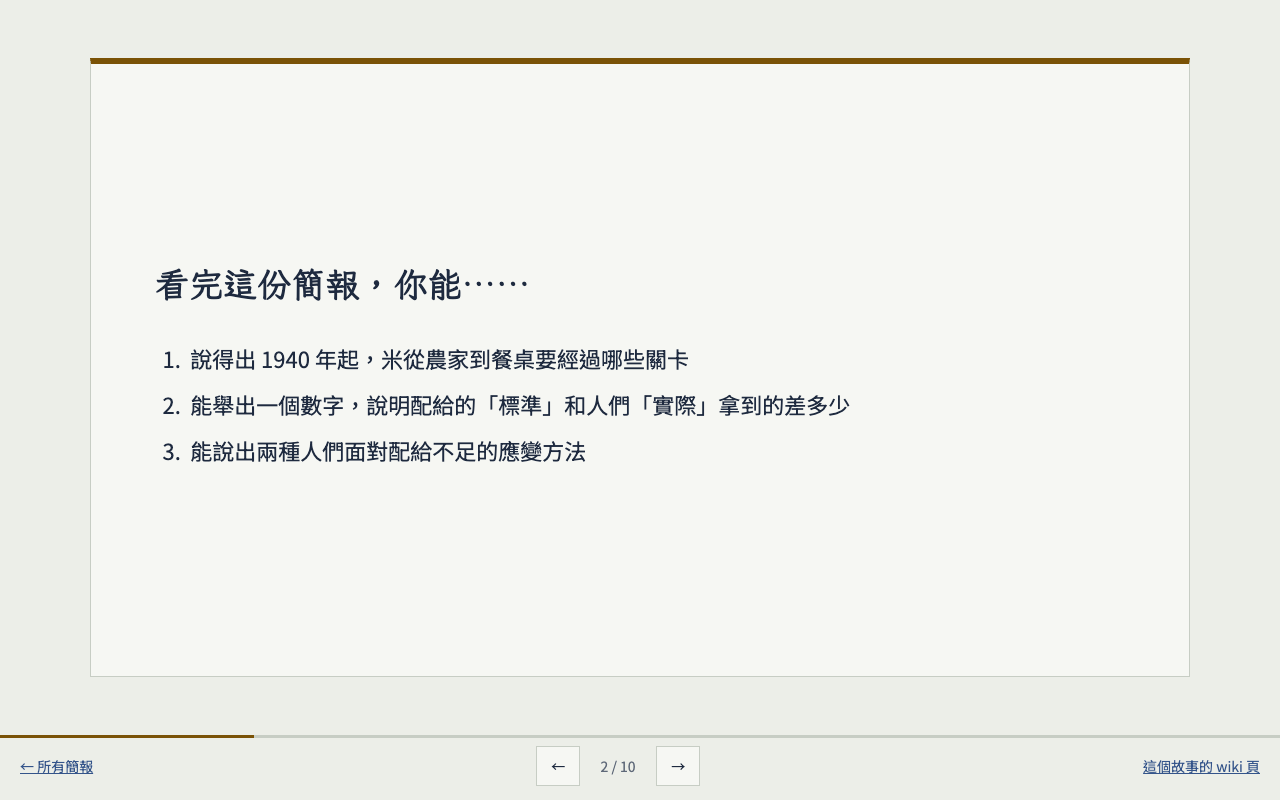
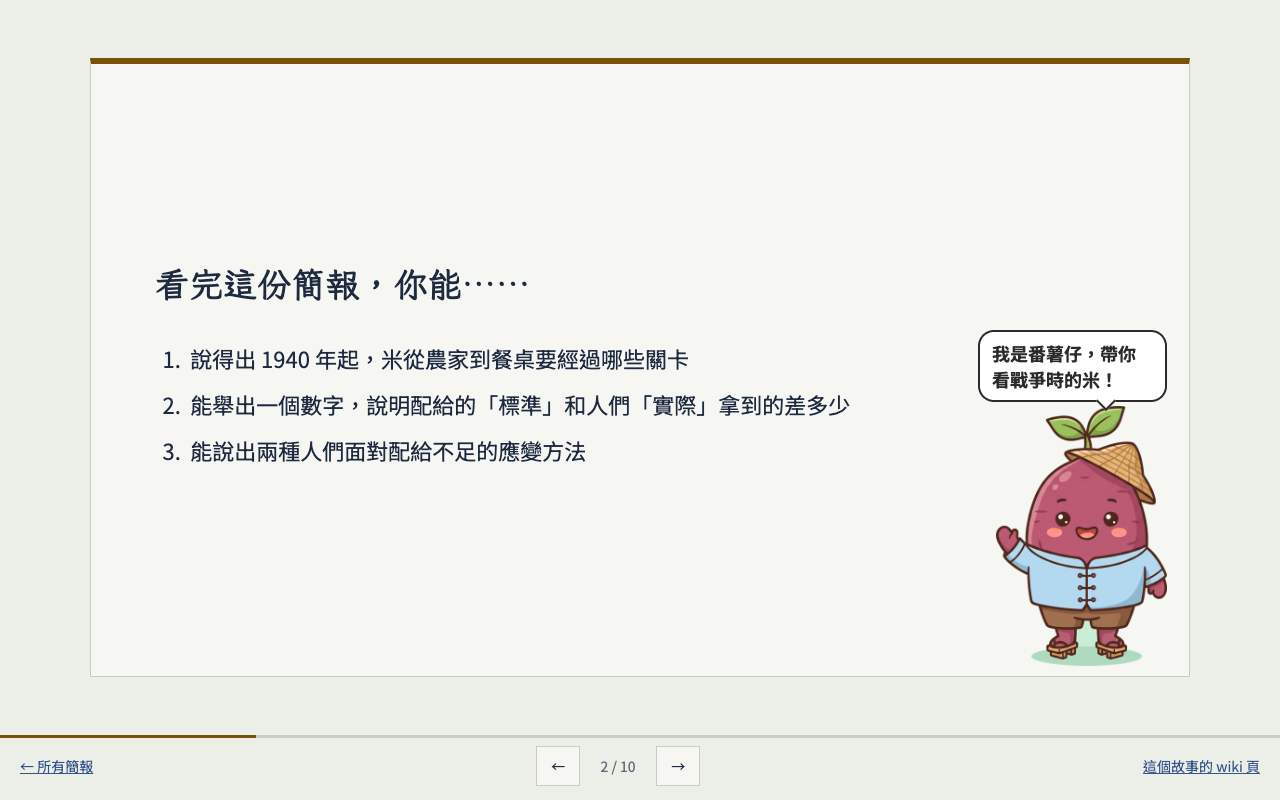
吉祥物改版：Q 版三角色＋對話框，參考老師簡報用法

Changed region(s): [[0.75, 0.4062, 0.9375, 0.8438]]

diff --git a/slides/t-rice-ration/deck.html b/slides/t-rice-ration/deck.html
@@ -84,23 +84,31 @@ figcaption{font-size:.8em;color:var(--muted)}
 }
 /* 吉祥物：每次開啟隨機挑角色與頁面，放在頁角，不擋字 */
 .slide{position:relative}
-.mascot{position:absolute;height:clamp(96px,25%,190px);width:auto;pointer-events:none;user-select:none}
-.at-br{right:18px;bottom:14px}.at-tr{right:22px;top:16px}.at-bl{left:18px;bottom:14px}.at-tl{left:22px;top:16px}.at-mr{right:14px;top:40%}
-.mascot.flip{transform:scaleX(-1)}
+.mascot{position:absolute;display:flex;flex-direction:column;align-items:flex-end;gap:4px;pointer-events:none;user-select:none}
+.mascot.at-bl,.mascot.at-tl{align-items:flex-start}
+.mascot img{width:auto;display:block;order:2}
+.mascot.flip img{transform:scaleX(-1)}
+.mascot .say{order:1;background:#fff;border:2.5px solid #2b2b2b;border-radius:16px;padding:8px 12px;font-size:clamp(14px,1.5vw,18px);font-weight:700;line-height:1.45;max-width:10.5em;position:relative;color:#2b2b2b}
+.mascot .say::after{content:"";position:absolute;bottom:-8px;right:28%;width:12px;height:12px;background:#fff;border:solid #2b2b2b;border-width:0 2.5px 2.5px 0;transform:rotate(45deg)}
+.mascot.at-bl .say::after,.mascot.at-tl .say::after{right:auto;left:28%}
+.at-br{right:22px;bottom:10px}.at-tr{right:22px;top:12px}.at-bl{left:22px;bottom:10px}.at-tl{left:22px;top:12px}.at-mr{right:22px;top:22%}
+/* 有吉祥物的頁：讓出一欄給角色（像老師的簡報），文字不會被擋 */
+.slide[data-mascot]:not(.layout-cover) .inner{padding-right:max(24%,250px)}
+.slide[data-spot="bl"]:not(.layout-cover) .inner,.slide[data-spot="tl"]:not(.layout-cover) .inner{padding-right:0;padding-left:max(24%,250px)}
 </style>
 </head>
 <body data-cat="rice">
 <main class="deck" id="deck">
 <section class="slide layout-cover" id="p1" aria-label="第 1 頁"><div class="inner"><div class="cover"><div class="ticket"><span class="stub">主</span><div><p class="series">戰時餐桌・故事簡報</p><h1>一天能吃多少米？</h1><p class="sub">1940 年起，農家多的米要交給政府，大家吃的米由政府來分配。</p><p class="meta">臺灣 1939–1945　·　共 10 頁　·　用 ← → 或滑動翻頁</p></div></div><img class="cover-img" src="../../assets/img/t-rice-ration.jpg" alt="木刻版畫風插畫：田邊的收購場，農民挑著稻穀排隊，辦事員用大秤秤重、登記。"></div></div></section>
-<section class="slide layout-goals" id="p2" aria-label="第 2 頁"><div class="inner"><h2>看完這份簡報，你能……</h2><ol class='goals'><li>說得出 1940 年起，米從農家到餐桌要經過哪些關卡</li><li>能舉出一個數字，說明配給的「標準」和人們「實際」拿到的差多少</li><li>能說出兩種人們面對配給不足的應變方法</li></ol></div></section>
+<section class="slide layout-goals" data-mascot="../../assets/mascots/sweetpotato/wave.png" data-spot="br" data-say="我是番薯仔，帶你看戰爭時的米！" id="p2" aria-label="第 2 頁"><div class="inner"><h2>看完這份簡報，你能……</h2><ol class='goals'><li>說得出 1940 年起，米從農家到餐桌要經過哪些關卡</li><li>能舉出一個數字，說明配給的「標準」和人們「實際」拿到的差多少</li><li>能說出兩種人們面對配給不足的應變方法</li></ol></div></section>
 <section class="slide layout-text" id="p3" aria-label="第 3 頁"><div class="inner"><h2>為什麼 1940 年開始管米？</h2><p>1939 年朝鮮大旱，隔年朝鮮運到日本的米，從 5,690 千石掉到 395 千石（石是當時量米的容量單位）。 <span class="cites">（<a class="cite" href="https://github.com/YuCecil/wartime-food-wiki/blob/main/wiki/sources/s-2009-li-grain-regulation.md" target="_blank" rel="noopener">李力庸 2009，頁 77</a>）</span></p><p>日本只好要臺灣補上缺口：1940 年臺灣要運出 5,000 千石，比前一年更多。 <span class="cites">（<a class="cite" href="https://github.com/YuCecil/wartime-food-wiki/blob/main/wiki/sources/s-2009-li-grain-regulation.md" target="_blank" rel="noopener">李力庸 2009，頁 77–78</a>）</span></p><p>同年 5 月，臺灣總督府宣布：一期稻作的米全部由政府管理。 <span class="cites">（<a class="cite" href="https://github.com/YuCecil/wartime-food-wiki/blob/main/wiki/sources/s-2017-huang-wartime-food-management.md" target="_blank" rel="noopener">黃仁姿 2017，頁 46–47</a>）</span></p><p>日本本土要到 10 月才跟進，<strong>殖民地反而比本土早一步</strong>。 <span class="cites">（<a class="cite" href="https://github.com/YuCecil/wartime-food-wiki/blob/main/wiki/sources/s-2017-huang-wartime-food-management.md" target="_blank" rel="noopener">黃仁姿 2017，頁 47</a>）</span></p></div></section>
-<section class="slide layout-text" data-mascot="../../assets/mascots/pig/ticket.png" data-spot="br" id="p4" aria-label="第 4 頁"><div class="inner"><h2>米從田裡到餐桌的關卡</h2><p><strong>收米</strong>：農家扣掉自己要吃的和種子，其餘由政府用公定價格強制收購。 <span class="cites">（<a class="cite" href="https://github.com/YuCecil/wartime-food-wiki/blob/main/wiki/sources/s-2017-tseng-table-war.md" target="_blank" rel="noopener">曾品滄 2017，頁 9</a>）</span></p><p><strong>綁住</strong>：沒交足規定的量，就領不到配給。 <span class="cites">（<a class="cite" href="https://github.com/YuCecil/wartime-food-wiki/blob/main/wiki/sources/s-2015-tseng-postwar-food-control.md" target="_blank" rel="noopener">曾獻緯 2015，頁 59</a>）</span></p><p><strong>盯著</strong>：經濟警察負責確保糧食配給、限制自由買賣。 <span class="cites">（<a class="cite" href="https://github.com/YuCecil/wartime-food-wiki/blob/main/wiki/sources/s-2025-lu-police-society.md" target="_blank" rel="noopener">陸文楓 2025，頁 47</a>）</span></p><p><strong>分米</strong>：1943 年底起，配給交給新成立、專管糧食配給的「台灣食糧營團」，收購由農業會負責。 <span class="cites">（<a class="cite" href="https://github.com/YuCecil/wartime-food-wiki/blob/main/wiki/sources/s-2019-huang-irrigation-farm-org.md" target="_blank" rel="noopener">黃仁姿、薛化元 2019，頁 133</a>；<a class="cite" href="https://github.com/YuCecil/wartime-food-wiki/blob/main/wiki/sources/s-2009-li-grain-regulation.md" target="_blank" rel="noopener">李力庸 2009，頁 97</a>）</span></p><p><strong>買米</strong>：一般家庭拿著配給券，大約一個月去買兩次米。 <span class="cites">（<a class="cite" href="https://github.com/YuCecil/wartime-food-wiki/blob/main/wiki/sources/s-2009-li-grain-regulation.md" target="_blank" rel="noopener">李力庸 2009，頁 93</a>）</span></p></div></section>
-<section class="slide layout-number" data-mascot="../../assets/mascots/cassava/sack.png" data-spot="tr" id="p5" aria-label="第 5 頁"><div class="inner"><h2>收成的米，有多少要交出去？</h2><p class="big"><span class="stamp-num">85.30%</span><span class="big-label">1944 年，臺灣的米交給政府的比例</span></p><p>這個比例叫「供出率」：交給政府的量，占實際收成的多少。 <span class="cites">（<a class="cite" href="https://github.com/YuCecil/wartime-food-wiki/blob/main/wiki/sources/s-2009-li-grain-regulation.md" target="_blank" rel="noopener">李力庸 2009，頁 94</a>）</span></p><p>同一年，朝鮮是 63.47%，日本本土是 60.46%，<strong>臺灣最高</strong>。 <span class="cites">（<a class="cite" href="https://github.com/YuCecil/wartime-food-wiki/blob/main/wiki/sources/s-2009-li-grain-regulation.md" target="_blank" rel="noopener">李力庸 2009，頁 94</a>）</span></p></div></section>
+<section class="slide layout-text" data-mascot="../../assets/mascots/pig/ticket.png" data-spot="br" data-say="有這張券，才買得到米喔！" id="p4" aria-label="第 4 頁"><div class="inner"><h2>米從田裡到餐桌的關卡</h2><p><strong>收米</strong>：農家扣掉自己要吃的和種子，其餘由政府用公定價格強制收購。 <span class="cites">（<a class="cite" href="https://github.com/YuCecil/wartime-food-wiki/blob/main/wiki/sources/s-2017-tseng-table-war.md" target="_blank" rel="noopener">曾品滄 2017，頁 9</a>）</span></p><p><strong>綁住</strong>：沒交足規定的量，就領不到配給。 <span class="cites">（<a class="cite" href="https://github.com/YuCecil/wartime-food-wiki/blob/main/wiki/sources/s-2015-tseng-postwar-food-control.md" target="_blank" rel="noopener">曾獻緯 2015，頁 59</a>）</span></p><p><strong>盯著</strong>：經濟警察負責確保糧食配給、限制自由買賣。 <span class="cites">（<a class="cite" href="https://github.com/YuCecil/wartime-food-wiki/blob/main/wiki/sources/s-2025-lu-police-society.md" target="_blank" rel="noopener">陸文楓 2025，頁 47</a>）</span></p><p><strong>分米</strong>：1943 年底起，配給交給新成立、專管糧食配給的「台灣食糧營團」，收購由農業會負責。 <span class="cites">（<a class="cite" href="https://github.com/YuCecil/wartime-food-wiki/blob/main/wiki/sources/s-2019-huang-irrigation-farm-org.md" target="_blank" rel="noopener">黃仁姿、薛化元 2019，頁 133</a>；<a class="cite" href="https://github.com/YuCecil/wartime-food-wiki/blob/main/wiki/sources/s-2009-li-grain-regulation.md" target="_blank" rel="noopener">李力庸 2009，頁 97</a>）</span></p><p><strong>買米</strong>：一般家庭拿著配給券，大約一個月去買兩次米。 <span class="cites">（<a class="cite" href="https://github.com/YuCecil/wartime-food-wiki/blob/main/wiki/sources/s-2009-li-grain-regulation.md" target="_blank" rel="noopener">李力庸 2009，頁 93</a>）</span></p></div></section>
+<section class="slide layout-number" data-mascot="../../assets/mascots/pig/sack.png" data-spot="bl" data-say="辛苦種的米，大部分都要交出去？" id="p5" aria-label="第 5 頁"><div class="inner"><h2>收成的米，有多少要交出去？</h2><p class="big"><span class="stamp-num">85.30%</span><span class="big-label">1944 年，臺灣的米交給政府的比例</span></p><p>這個比例叫「供出率」：交給政府的量，占實際收成的多少。 <span class="cites">（<a class="cite" href="https://github.com/YuCecil/wartime-food-wiki/blob/main/wiki/sources/s-2009-li-grain-regulation.md" target="_blank" rel="noopener">李力庸 2009，頁 94</a>）</span></p><p>同一年，朝鮮是 63.47%，日本本土是 60.46%，<strong>臺灣最高</strong>。 <span class="cites">（<a class="cite" href="https://github.com/YuCecil/wartime-food-wiki/blob/main/wiki/sources/s-2009-li-grain-regulation.md" target="_blank" rel="noopener">李力庸 2009，頁 94</a>）</span></p></div></section>
 <section class="slide layout-number" id="p6" aria-label="第 6 頁"><div class="inner"><h2>一般成年人一天配到多少米？</h2><p class="big"><span class="stamp-num">330 公克</span><span class="big-label">1942 年起，一般成年人每天的配給標準（七分搗米）</span></p><p>米的配給量，最初是照營養學家推算的每日所需熱量的<strong>八成</strong>來訂的。 <span class="cites">（<a class="cite" href="https://github.com/YuCecil/wartime-food-wiki/blob/main/wiki/sources/s-2017-tseng-table-war.md" target="_blank" rel="noopener">曾品滄 2017，頁 10</a>）</span></p><p>工作越重配越多：重勞動者 520 公克，輕勞動者、青少年、孕婦 390 公克。 <span class="cites">（<a class="cite" href="https://github.com/YuCecil/wartime-food-wiki/blob/main/wiki/sources/s-2017-tseng-table-war.md" target="_blank" rel="noopener">曾品滄 2017，頁 10</a>）</span></p><p>330 公克的七分搗米約是 2 合 3 勺；臺灣用糙米（只去殼、沒碾白的米）計算，就是 <strong>2 合 5 勺</strong>。 <span class="cites">（<a class="cite" href="https://github.com/YuCecil/wartime-food-wiki/blob/main/wiki/sources/s-2017-huang-wartime-food-management.md" target="_blank" rel="noopener">黃仁姿 2017，頁 41 註 17</a>）</span></p></div></section>
-<section class="slide layout-text" data-mascot="../../assets/mascots/rice/bowl.png" data-spot="mr" id="p7" aria-label="第 7 頁"><div class="inner"><h2>標準一路往下砍，實際拿到的更少</h2><p>標準：一般人每天糙米 2 合 5 勺，寫成小數是 2.50 合（「勺」是比「合」小的單位）。 <span class="cites">（<a class="cite" href="https://github.com/YuCecil/wartime-food-wiki/blob/main/wiki/sources/s-2017-tseng-table-war.md" target="_blank" rel="noopener">曾品滄 2017，頁 10</a>；<a class="cite" href="https://github.com/YuCecil/wartime-food-wiki/blob/main/wiki/sources/s-2017-huang-wartime-food-management.md" target="_blank" rel="noopener">黃仁姿 2017，頁 51</a>）</span></p><p>1940 年 3 月，新竹市把一般人的配給從 2 合 5 勺減成 2 合 2 勺。 <span class="cites">（<a class="cite" href="https://github.com/YuCecil/wartime-food-wiki/blob/main/wiki/sources/s-2017-tseng-table-war.md" target="_blank" rel="noopener">曾品滄 2017，頁 11</a>）</span></p><p>4 月，澎湖一般人只配 2 合，產米的屏東更只有 1.7 合。 <span class="cites">（<a class="cite" href="https://github.com/YuCecil/wartime-food-wiki/blob/main/wiki/sources/s-2017-tseng-table-war.md" target="_blank" rel="noopener">曾品滄 2017，頁 11</a>）</span></p><p>1945 年第一期稻作起，連標準也降：一般消費者再減一成五。 <span class="cites">（<a class="cite" href="https://github.com/YuCecil/wartime-food-wiki/blob/main/wiki/sources/s-2017-huang-wartime-food-management.md" target="_blank" rel="noopener">黃仁姿 2017，頁 50 註 44</a>）</span></p><p>1944 至 1945 年，各地居民實際配到的米常低於二合五勺的標準，<strong>比在臺日本人還少</strong>。 <span class="cites">（<a class="cite" href="https://github.com/YuCecil/wartime-food-wiki/blob/main/wiki/sources/s-2013-tseng-hometown.md" target="_blank" rel="noopener">曾品滄 2013，頁 130</a>）</span></p></div></section>
+<section class="slide layout-text" data-mascot="../../assets/mascots/rice/bowl.png" data-spot="br" data-say="碗裡的飯，怎麼越來越少……" id="p7" aria-label="第 7 頁"><div class="inner"><h2>標準一路往下砍，實際拿到的更少</h2><p>標準：一般人每天糙米 2 合 5 勺，寫成小數是 2.50 合（「勺」是比「合」小的單位）。 <span class="cites">（<a class="cite" href="https://github.com/YuCecil/wartime-food-wiki/blob/main/wiki/sources/s-2017-tseng-table-war.md" target="_blank" rel="noopener">曾品滄 2017，頁 10</a>；<a class="cite" href="https://github.com/YuCecil/wartime-food-wiki/blob/main/wiki/sources/s-2017-huang-wartime-food-management.md" target="_blank" rel="noopener">黃仁姿 2017，頁 51</a>）</span></p><p>1940 年 3 月，新竹市把一般人的配給從 2 合 5 勺減成 2 合 2 勺。 <span class="cites">（<a class="cite" href="https://github.com/YuCecil/wartime-food-wiki/blob/main/wiki/sources/s-2017-tseng-table-war.md" target="_blank" rel="noopener">曾品滄 2017，頁 11</a>）</span></p><p>4 月，澎湖一般人只配 2 合，產米的屏東更只有 1.7 合。 <span class="cites">（<a class="cite" href="https://github.com/YuCecil/wartime-food-wiki/blob/main/wiki/sources/s-2017-tseng-table-war.md" target="_blank" rel="noopener">曾品滄 2017，頁 11</a>）</span></p><p>1945 年第一期稻作起，連標準也降：一般消費者再減一成五。 <span class="cites">（<a class="cite" href="https://github.com/YuCecil/wartime-food-wiki/blob/main/wiki/sources/s-2017-huang-wartime-food-management.md" target="_blank" rel="noopener">黃仁姿 2017，頁 50 註 44</a>）</span></p><p>1944 至 1945 年，各地居民實際配到的米常低於二合五勺的標準，<strong>比在臺日本人還少</strong>。 <span class="cites">（<a class="cite" href="https://github.com/YuCecil/wartime-food-wiki/blob/main/wiki/sources/s-2013-tseng-hometown.md" target="_blank" rel="noopener">曾品滄 2013，頁 130</a>）</span></p></div></section>
 <section class="slide layout-compare" id="p8" aria-label="第 8 頁"><div class="inner"><h2>帳面上夠吃，生活裡不夠吃？</h2><div class="compare"><div class="side"><p class="who">一種說法</p><p>歷史學者黃仁姿用統計推算，到 1944 年為止臺灣的米都還有剩，1945 年才不足將近 160 萬石。 <span class="cites">（<a class="cite" href="https://github.com/YuCecil/wartime-food-wiki/blob/main/wiki/sources/s-2017-huang-wartime-food-management.md" target="_blank" rel="noopener">黃仁姿 2017，頁 64</a>）</span></p></div><div class="side"><p class="who">另一種說法</p><p>歷史學者曾獻緯寫道，配給的食物總是不夠，有時一連幾天用地瓜或麵包代替三餐。 <span class="cites">（<a class="cite" href="https://github.com/YuCecil/wartime-food-wiki/blob/main/wiki/sources/s-2015-tseng-postwar-food-control.md" target="_blank" rel="noopener">曾獻緯 2015，頁 59</a>）</span></p></div></div><p>黃仁姿自己也注意到這個落差：一個月份的配給米，往往只撐二十多天。 <span class="cites">（<a class="cite" href="https://github.com/YuCecil/wartime-food-wiki/blob/main/wiki/sources/s-2017-huang-wartime-food-management.md" target="_blank" rel="noopener">黃仁姿 2017，頁 65</a>）</span></p><p>米去了哪裡？她推測可能流向軍隊：終戰前在臺陸軍約 30 萬人。 <span class="cites">（<a class="cite" href="https://github.com/YuCecil/wartime-food-wiki/blob/main/wiki/sources/s-2017-huang-wartime-food-management.md" target="_blank" rel="noopener">黃仁姿 2017，頁 63 註 83</a>）</span></p></div></section>
-<section class="slide layout-text" data-mascot="../../assets/mascots/sweetpotato/basket.png" data-spot="br" id="p9" aria-label="第 9 頁"><div class="inner"><h2>米不夠吃，大家怎麼辦？</h2><p><strong>吃番薯</strong>：1944 年臺灣的番薯只交出 6.28%，作者推測大家用大量番薯代替米。 <span class="cites">（<a class="cite" href="https://github.com/YuCecil/wartime-food-wiki/blob/main/wiki/sources/s-2009-li-grain-regulation.md" target="_blank" rel="noopener">李力庸 2009，頁 94</a>）</span></p><p>住在臺中霧峰的林獻堂在日記裡寫，配給米減了兩成，「非以蕃薯代用不可」。 <span class="cites">（<a class="cite" href="https://github.com/YuCecil/wartime-food-wiki/blob/main/wiki/sources/s-2017-tseng-table-war.md" target="_blank" rel="noopener">曾品滄 2017，頁 11–12</a>）</span></p><p><strong>找黑市</strong>：配給米不夠，就透過黑市買，或在飯裡摻番薯籤。 <span class="cites">（<a class="cite" href="https://github.com/YuCecil/wartime-food-wiki/blob/main/wiki/sources/s-2017-huang-wartime-food-management.md" target="_blank" rel="noopener">黃仁姿 2017，頁 65</a>）</span></p><p><strong>藏起來</strong>：佃農會把粟（稻穀）藏起來。張文環想用義勇報國隊的名義去搜，林獻堂勸他別用這個名義，怕惹人怨恨。 <span class="cites">（<a class="cite" href="https://github.com/YuCecil/wartime-food-wiki/blob/main/wiki/sources/s-2025-lu-police-society.md" target="_blank" rel="noopener">陸文楓 2025，頁 53</a>）</span></p><p>義勇報國隊是總督府 1944 年 8 月底打算設立的民兵組織。 <span class="cites">（<a class="cite" href="https://github.com/YuCecil/wartime-food-wiki/blob/main/wiki/sources/s-2025-lu-police-society.md" target="_blank" rel="noopener">陸文楓 2025，頁 52</a>）</span></p></div></section>
-<section class="slide layout-check" data-mascot="../../assets/mascots/pig/thinking.png" data-spot="bl" id="p10" aria-label="第 10 頁"><div class="inner"><h2>自我檢查</h2><ol class='qa'><li><p>戰爭末期（1943 年底以後），一般家庭怎麼拿到米？</p><details><summary>看答案</summary><p>農家的米由政府收購，交給食糧營團配給，家庭拿配給券去買。（第 4 頁）</p></details></li><li><p>1940 年起一般人每天的配給標準是多少？哪裡配得比標準少？</p><details><summary>看答案</summary><p>標準是糙米 2 合 5 勺；1940 年新竹減成 2 合 2 勺，澎湖 2 合，屏東只有 1.7 合。（第 7 頁）</p></details></li><li><p>舉出兩種人們面對配給不足的辦法。</p><details><summary>看答案</summary><p>用番薯代替米、到黑市買、在飯裡摻番薯籤、把稻穀藏起來（任兩種）。（第 9 頁）</p></details></li></ol></div></section>
+<section class="slide layout-text" data-mascot="../../assets/mascots/sweetpotato/pointer.png" data-spot="br" data-say="米不夠，就換番薯上場！" id="p9" aria-label="第 9 頁"><div class="inner"><h2>米不夠吃，大家怎麼辦？</h2><p><strong>吃番薯</strong>：1944 年臺灣的番薯只交出 6.28%，作者推測大家用大量番薯代替米。 <span class="cites">（<a class="cite" href="https://github.com/YuCecil/wartime-food-wiki/blob/main/wiki/sources/s-2009-li-grain-regulation.md" target="_blank" rel="noopener">李力庸 2009，頁 94</a>）</span></p><p>住在臺中霧峰的林獻堂在日記裡寫，配給米減了兩成，「非以蕃薯代用不可」。 <span class="cites">（<a class="cite" href="https://github.com/YuCecil/wartime-food-wiki/blob/main/wiki/sources/s-2017-tseng-table-war.md" target="_blank" rel="noopener">曾品滄 2017，頁 11–12</a>）</span></p><p><strong>找黑市</strong>：配給米不夠，就透過黑市買，或在飯裡摻番薯籤。 <span class="cites">（<a class="cite" href="https://github.com/YuCecil/wartime-food-wiki/blob/main/wiki/sources/s-2017-huang-wartime-food-management.md" target="_blank" rel="noopener">黃仁姿 2017，頁 65</a>）</span></p><p><strong>藏起來</strong>：佃農會把粟（稻穀）藏起來。張文環想用義勇報國隊的名義去搜，林獻堂勸他別用這個名義，怕惹人怨恨。 <span class="cites">（<a class="cite" href="https://github.com/YuCecil/wartime-food-wiki/blob/main/wiki/sources/s-2025-lu-police-society.md" target="_blank" rel="noopener">陸文楓 2025，頁 53</a>）</span></p><p>義勇報國隊是總督府 1944 年 8 月底打算設立的民兵組織。 <span class="cites">（<a class="cite" href="https://github.com/YuCecil/wartime-food-wiki/blob/main/wiki/sources/s-2025-lu-police-society.md" target="_blank" rel="noopener">陸文楓 2025，頁 52</a>）</span></p></div></section>
+<section class="slide layout-check" data-mascot="../../assets/mascots/rice/ask.png" data-spot="bl" data-say="答不出來？回前面找找看！" id="p10" aria-label="第 10 頁"><div class="inner"><h2>自我檢查</h2><ol class='qa'><li><p>戰爭末期（1943 年底以後），一般家庭怎麼拿到米？</p><details><summary>看答案</summary><p>農家的米由政府收購，交給食糧營團配給，家庭拿配給券去買。（第 4 頁）</p></details></li><li><p>1940 年起一般人每天的配給標準是多少？哪裡配得比標準少？</p><details><summary>看答案</summary><p>標準是糙米 2 合 5 勺；1940 年新竹減成 2 合 2 勺，澎湖 2 合，屏東只有 1.7 合。（第 7 頁）</p></details></li><li><p>舉出兩種人們面對配給不足的辦法。</p><details><summary>看答案</summary><p>用番薯代替米、到黑市買、在飯裡摻番薯籤、把稻穀藏起來（任兩種）。（第 9 頁）</p></details></li></ol></div></section>
 </main>
 <div class="progress" aria-hidden="true"><span id="prog"></span></div>
 <nav class="bar" aria-label="翻頁">
@@ -136,15 +144,16 @@ go(parseInt(location.hash.slice(1))||1);
    位置在顯示時才決定：依頁碼輪換優先順序，挑第一個不擋到文字的角落；都會擋就不放。 */
 const SPOTS=['br','tr','bl','mr','tl'];
 function placeMascot(s,n){const src=s.dataset.mascot;if(!src||s.dataset.placed)return;s.dataset.placed=1;
-  const img=new Image();img.alt='';img.className='mascot';img.src=src;
+  const box=document.createElement('div'),img=new Image();img.alt='';img.src=src;box.appendChild(img);
+  if(s.dataset.say){const b=document.createElement('div');b.className='say';b.textContent=s.dataset.say;box.appendChild(b)}
   img.onload=()=>{const txt=[...s.querySelectorAll('.inner h2,.inner p,.inner li,.inner .big,.inner .compare,.inner figure,.inner .cover')]
       .map(e=>{const r=e.getBoundingClientRect(),range=document.createRange();range.selectNodeContents(e);const c=range.getBoundingClientRect();
         return {l:c.left||r.left,r:(c.right||r.right),t:r.top,b:r.bottom}});
     const rot=SPOTS.slice(n%SPOTS.length).concat(SPOTS.slice(0,n%SPOTS.length));const order=[...new Set([s.dataset.spot,...rot].filter(Boolean))];
-    s.appendChild(img);
-    for(const sp of order){img.className='mascot at-'+sp+(n%3===1?' flip':'');const m=img.getBoundingClientRect();
+    s.appendChild(box);const H=s.getBoundingClientRect().height;
+    for(const sp of order)for(const f of [.42,.34,.26]){img.style.height=Math.round(H*f)+'px';box.className='mascot at-'+sp+(n%3===1?' flip':'');const m=box.getBoundingClientRect();
       if(!txt.some(x=>x.r>m.left-8&&x.l<m.right+8&&x.b>m.top-8&&x.t<m.bottom+8))return;}
-    img.remove();};}
+    box.remove();};}
 const _go=go;go=function(n){_go(n);placeMascot(slides[cur-1],cur)};
 placeMascot(slides[cur-1],cur);
 </script>

diff --git a/templates/deck.html b/templates/deck.html
@@ -84,9 +84,17 @@ figcaption{font-size:.8em;color:var(--muted)}
 }
 /* 吉祥物：每次開啟隨機挑角色與頁面，放在頁角，不擋字 */
 .slide{position:relative}
-.mascot{position:absolute;height:clamp(96px,25%,190px);width:auto;pointer-events:none;user-select:none}
-.at-br{right:18px;bottom:14px}.at-tr{right:22px;top:16px}.at-bl{left:18px;bottom:14px}.at-tl{left:22px;top:16px}.at-mr{right:14px;top:40%}
-.mascot.flip{transform:scaleX(-1)}
+.mascot{position:absolute;display:flex;flex-direction:column;align-items:flex-end;gap:4px;pointer-events:none;user-select:none}
+.mascot.at-bl,.mascot.at-tl{align-items:flex-start}
+.mascot img{width:auto;display:block;order:2}
+.mascot.flip img{transform:scaleX(-1)}
+.mascot .say{order:1;background:#fff;border:2.5px solid #2b2b2b;border-radius:16px;padding:8px 12px;font-size:clamp(14px,1.5vw,18px);font-weight:700;line-height:1.45;max-width:10.5em;position:relative;color:#2b2b2b}
+.mascot .say::after{content:"";position:absolute;bottom:-8px;right:28%;width:12px;height:12px;background:#fff;border:solid #2b2b2b;border-width:0 2.5px 2.5px 0;transform:rotate(45deg)}
+.mascot.at-bl .say::after,.mascot.at-tl .say::after{right:auto;left:28%}
+.at-br{right:22px;bottom:10px}.at-tr{right:22px;top:12px}.at-bl{left:22px;bottom:10px}.at-tl{left:22px;top:12px}.at-mr{right:22px;top:22%}
+/* 有吉祥物的頁：讓出一欄給角色（像老師的簡報），文字不會被擋 */
+.slide[data-mascot]:not(.layout-cover) .inner{padding-right:max(24%,250px)}
+.slide[data-spot="bl"]:not(.layout-cover) .inner,.slide[data-spot="tl"]:not(.layout-cover) .inner{padding-right:0;padding-left:max(24%,250px)}
 </style>
 </head>
 <body data-cat="{{CAT}}">
@@ -127,15 +135,16 @@ go(parseInt(location.hash.slice(1))||1);
    位置在顯示時才決定：依頁碼輪換優先順序，挑第一個不擋到文字的角落；都會擋就不放。 */
 const SPOTS=['br','tr','bl','mr','tl'];
 function placeMascot(s,n){const src=s.dataset.mascot;if(!src||s.dataset.placed)return;s.dataset.placed=1;
-  const img=new Image();img.alt='';img.className='mascot';img.src=src;
+  const box=document.createElement('div'),img=new Image();img.alt='';img.src=src;box.appendChild(img);
+  if(s.dataset.say){const b=document.createElement('div');b.className='say';b.textContent=s.dataset.say;box.appendChild(b)}
   img.onload=()=>{const txt=[...s.querySelectorAll('.inner h2,.inner p,.inner li,.inner .big,.inner .compare,.inner figure,.inner .cover')]
       .map(e=>{const r=e.getBoundingClientRect(),range=document.createRange();range.selectNodeContents(e);const c=range.getBoundingClientRect();
         return {l:c.left||r.left,r:(c.right||r.right),t:r.top,b:r.bottom}});
     const rot=SPOTS.slice(n%SPOTS.length).concat(SPOTS.slice(0,n%SPOTS.length));const order=[...new Set([s.dataset.spot,...rot].filter(Boolean))];
-    s.appendChild(img);
-    for(const sp of order){img.className='mascot at-'+sp+(n%3===1?' flip':'');const m=img.getBoundingClientRect();
+    s.appendChild(box);const H=s.getBoundingClientRect().height;
+    for(const sp of order)for(const f of [.42,.34,.26]){img.style.height=Math.round(H*f)+'px';box.className='mascot at-'+sp+(n%3===1?' flip':'');const m=box.getBoundingClientRect();
       if(!txt.some(x=>x.r>m.left-8&&x.l<m.right+8&&x.b>m.top-8&&x.t<m.bottom+8))return;}
-    img.remove();};}
+    box.remove();};}
 const _go=go;go=function(n){_go(n);placeMascot(slides[cur-1],cur)};
 placeMascot(slides[cur-1],cur);
 </script>

diff --git a/tools/slides.py b/tools/slides.py
@@ -298,6 +298,11 @@ def cmd_script(tid):
             name = l.split("：", 1)[1].split("｜")[0].strip().partition("@")[0]
             if not (ROOT / "assets/mascots" / f"{name}.png").exists():
                 problems.append(f"{w}：吉祥物 {name} 不存在（要是 assets/mascots/<角色>/<姿勢>.png）")
+            say = l.split("｜", 1)[1].strip() if "｜" in l else ""
+            if re.search(r"[0-9０-９]", say):
+                problems.append(f"{w}：吉祥物台詞「{say}」有數字；台詞只能提問或反應，事實要放在正文並標出處")
+            if cjk_len(say) > 24:
+                problems.append(f"{w}：吉祥物台詞 {cjk_len(say)} 字，最多 24 字")
             mascot_pages.append(p["n"])
         n = cjk_len(p["title"]) + sum(cjk_len(plain(l)) for l in p["lines"])
         if n > MAX_CHARS:
@@ -345,8 +350,8 @@ def cmd_script(tid):
             missing = [b for b in sorted(bases) if b not in page_text]
             if missing:
                 problems.append(f"{w}：這頁混用了 {'、'.join(sorted(bases))} 的量，但頁面上沒寫出「{'、'.join(missing)}」，讀者會拿不同基準的數字直接比")
-    if len(mascot_pages) > len(pages) // 2:
-        problems.append(f"吉祥物放了 {len(mascot_pages)} 頁，最多一半（{len(pages) // 2} 頁），只放在跟內容有關的頁")
+    if len(mascot_pages) > len(pages) * 6 // 10:
+        problems.append(f"吉祥物放了 {len(mascot_pages)} 頁，最多六成（{len(pages) * 6 // 10} 頁），只放在跟內容有關的頁")
     return finish(tid, "逐頁稿", problems, "⑤ 逐頁稿：只修列出的那幾頁（證據卡本身錯就退回 ③）")
 
 
@@ -396,14 +401,16 @@ def cmd_build(tid):
     for p in pages:
         L = p["layout"]
         title = html.escape(p["title"])
-        lines = p["lines"]
+        lines = [l for l in p["lines"] if not l.startswith("吉祥物：")]
         get = lambda k: [l for l in lines if l.startswith(k)]
         rest = [l for l in lines if not l.startswith(("大數字：", "甲說：", "乙說：", "圖：", "副標：", "答案：", "吉祥物："))]
-        mz = get("吉祥物：")
+        mz = [l for l in p["lines"] if l.startswith("吉祥物：")]
         mattr = ""
-        if mz:  # 吉祥物：角色/姿勢@位置｜理由；位置可省略（br 右下、tr 右上、bl 左下、tl 左上、mr 右側中間）
+        if mz:  # 吉祥物：角色/姿勢@位置｜台詞；位置、台詞可省略（br 右下、tr 右上、bl 左下、tl 左上、mr 右側中間）
             nm, _, spot = mz[0].split("：", 1)[1].split("｜")[0].strip().partition("@")
             mattr = f' data-mascot="../../assets/mascots/{html.escape(nm)}.png"' + (f' data-spot="{html.escape(spot)}"' if spot else "")
+            say = mz[0].split("｜", 1)[1].strip() if "｜" in mz[0] else ""
+            if say: mattr += f' data-say="{html.escape(say)}"'
         inner = ""
         if L == "cover":
             sub = html.escape(plain(get("副標：")[0])) if get("副標：") else ""

diff --git a/slides/t-rice-ration/script.md b/slides/t-rice-ration/script.md
@@ -4,6 +4,7 @@
 副標：1940 年起，農家多的米要交給政府，大家吃的米由政府來分配。
 
 ## 2 | goals | 看完這份簡報，你能……
+吉祥物：sweetpotato/wave@br｜我是番薯仔，帶你看戰爭時的米！
 1. 說得出 1940 年起，米從農家到餐桌要經過哪些關卡
 2. 能舉出一個數字，說明配給的「標準」和人們「實際」拿到的差多少
 3. 能說出兩種人們面對配給不足的應變方法
@@ -15,7 +16,7 @@
 日本本土要到 10 月才跟進，**殖民地反而比本土早一步**。[s-2017-huang-wartime-food-management#E2]
 
 ## 4 | text | 米從田裡到餐桌的關卡
-吉祥物：pig/ticket@br｜第 4 頁講配給券
+吉祥物：pig/ticket@br｜有這張券，才買得到米喔！
 **收米**：農家扣掉自己要吃的和種子，其餘由政府用公定價格強制收購。[s-2017-tseng-table-war#E2]
 **綁住**：沒交足規定的量，就領不到配給。[s-2015-tseng-postwar-food-control#E2]
 **盯著**：經濟警察負責確保糧食配給、限制自由買賣。[s-2025-lu-police-society#E1]
@@ -23,7 +24,7 @@
 **買米**：一般家庭拿著配給券，大約一個月去買兩次米。[s-2009-li-grain-regulation#E6]
 
 ## 5 | number | 收成的米，有多少要交出去？
-吉祥物：cassava/sack@tr｜第 5 頁講米交出去
+吉祥物：pig/sack@bl｜辛苦種的米，大部分都要交出去？
 大數字：85.30%｜1944 年，臺灣的米交給政府的比例 [s-2009-li-grain-regulation#E3]
 這個比例叫「供出率」：交給政府的量，占實際收成的多少。[s-2009-li-grain-regulation#E3]
 同一年，朝鮮是 63.47%，日本本土是 60.46%，**臺灣最高**。[s-2009-li-grain-regulation#E3]
@@ -35,7 +36,7 @@
 330 公克的七分搗米約是 2 合 3 勺；臺灣用糙米（只去殼、沒碾白的米）計算，就是 **2 合 5 勺**。[s-2017-huang-wartime-food-management#E3]
 
 ## 7 | text | 標準一路往下砍，實際拿到的更少
-吉祥物：rice/bowl@mr｜第 7 頁講實際拿到的更少
+吉祥物：rice/bowl@br｜碗裡的飯，怎麼越來越少……
 標準：一般人每天糙米 2 合 5 勺，寫成小數是 2.50 合（「勺」是比「合」小的單位）。[s-2017-tseng-table-war#E4][s-2017-huang-wartime-food-management#E9]
 1940 年 3 月，新竹市把一般人的配給從 2 合 5 勺減成 2 合 2 勺。[s-2017-tseng-table-war#E7]
 4 月，澎湖一般人只配 2 合，產米的屏東更只有 1.7 合。[s-2017-tseng-table-war#E7]
@@ -49,7 +50,7 @@
 米去了哪裡？她推測可能流向軍隊：終戰前在臺陸軍約 30 萬人。[s-2017-huang-wartime-food-management#E8]
 
 ## 9 | text | 米不夠吃，大家怎麼辦？
-吉祥物：sweetpotato/basket@br｜第 9 頁講用番薯代替米
+吉祥物：sweetpotato/pointer@br｜米不夠，就換番薯上場！
 **吃番薯**：1944 年臺灣的番薯只交出 6.28%，作者推測大家用大量番薯代替米。[s-2009-li-grain-regulation#E3][s-2009-li-grain-regulation#E4]
 住在臺中霧峰的林獻堂在日記裡寫，配給米減了兩成，「非以蕃薯代用不可」。[s-2017-tseng-table-war#E8]
 **找黑市**：配給米不夠，就透過黑市買，或在飯裡摻番薯籤。[s-2017-huang-wartime-food-management#E5]
@@ -57,7 +58,7 @@
 義勇報國隊是總督府 1944 年 8 月底打算設立的民兵組織。[s-2025-lu-police-society#E4]
 
 ## 10 | check | 自我檢查
-吉祥物：pig/thinking@bl｜自我檢查
+吉祥物：rice/ask@bl｜答不出來？回前面找找看！
 1. 戰爭末期（1943 年底以後），一般家庭怎麼拿到米？
 答案：農家的米由政府收購，交給食糧營團配給，家庭拿配給券去買。（第 4 頁）
 2. 1940 年起一般人每天的配給標準是多少？哪裡配得比標準少？

diff --git a/.agents/workflows/story-slides.md b/.agents/workflows/story-slides.md
@@ -100,7 +100,7 @@ argument: 故事 id，例：t-rice-ration
 - 腳本只對得上「數字」，對不上「月份、打算 vs 已經做」這類意思；寫完自己再對一次證據卡的事實欄。
 - 每頁 170 字內。寫給沒人講解的讀者：完整句子、不用縮寫、第一次出現的名詞順手解釋。
 - `image` 版型寫 `圖：檔名.jpg｜一句話說明`，圖要在 `assets/img/`。
-- 吉祥物（可選）：在跟內容有關的頁加一行 `吉祥物：角色/姿勢@位置｜為什麼放這隻`，例如講配給券放 `pig/ticket`、講半碗飯放 `rice/bowl`。最多一半的頁數；位置 br／tr／bl／tl／mr，各頁錯開。角色清單看 `assets/mascots/`。顯示時若那個位置會擋到字，程式會自動換別的角落，都會擋就不放。
+- 吉祥物（可選，參考老師上課簡報的用法）：在跟內容有關的頁加一行 `吉祥物：角色/姿勢@位置｜台詞`，例如 `吉祥物：rice/bowl@br｜碗裡的飯，怎麼越來越少……`。台詞是角色對讀者的提問或反應，不可有數字、最多 24 字（事實放正文並標出處）。最多六成的頁數；位置 br／bl／tr／tl／mr，各頁錯開。角色清單看 `assets/mascots/`（番薯仔＝導覽、米粒妹＝發問的學生、豬仔＝搞笑配角）。有吉祥物的頁文字會讓出一欄。
 
 ### ⑥ AI 審查（新對話）
 另開一個**全新的對話**（Claude Code：派一個子代理；其他工具：開新視窗），只給 `slides/<id>/script.md` 與 `slides/<id>/cards/`，提示詞：

diff --git a/wiki/log.md b/wiki/log.md
@@ -62,3 +62,10 @@
 - 使用者意見：吉祥物要融入簡報內容，不用每頁都放，位置不要都一樣
 - 改為在 script.md 該頁寫「吉祥物：角色/姿勢@位置｜理由」，由寫稿的人依內容挑；逐頁稿關卡檢查圖存在、最多一半頁數；顯示時先試指定位置，會擋字就換角落
 - t-rice-ration：第 4 頁豬仔舉配給券、第 5 頁樹薯伯扛米袋、第 7 頁米粒妹捧半碗飯、第 9 頁番薯仔提竹籃、第 10 頁豬仔托腮
+
+## [2026-11-18] rule | 吉祥物改版：參考老師上課簡報
+- 使用者意見：參考老師簡報的吉祥物用法；有些吉祥物不好看，提示詞由主模型寫；可派多個 haiku 一起生
+- 老師的用法：角色大（約畫面 1/3 高）、配對話框說一句跟內容有關的話、位置會換
+- 改版：三個角色各 4 個姿勢（番薯仔導覽、米粒妹發問、豬仔搞笑），改 Q 版粉彩畫風、英文提示詞（中文輸入常打錯字）；舊木刻版移到 assets/mascots-舊版1-木刻/
+- 逐頁稿格式改成「吉祥物：角色/姿勢@位置｜台詞」；檢查台詞不可有數字、≤24 字，吉祥物最多六成頁數；有吉祥物的頁讓出一欄給角色
+- 執行時發現：3 個 haiku 同時用 Gemini，輸入框草稿會在分頁間同步、下載檔也被對調一張；改成一次一個代理，並且每張下載後先開圖確認再改名
